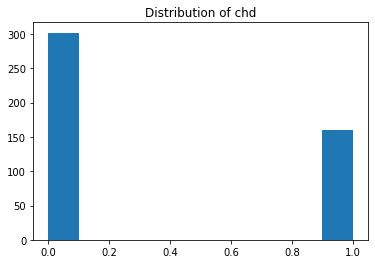
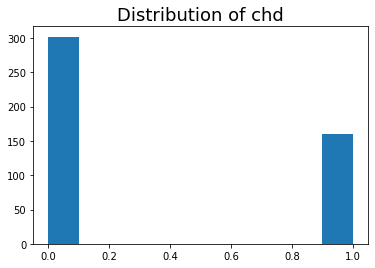
minor cleanup

diff --git a/Heart_disease_PCA+plots.py b/Heart_disease_PCA+plots.py
@@ -66,10 +66,6 @@ for comp in explained_variance:
     print(val,"%")
    
 
-
-# y = binary_heart_data.to_numpy()[:,-1]
-
-
 #Now we can transform this data to its principal components
 
 
@@ -168,9 +164,9 @@ sns.heatmap(df_comp,cmap='plasma',)
 fi = plt.figure(figsize=(10,5),dpi=300)
 ax = fi.add_subplot(111, projection='3d')
 
-xi =binary_heart_data.obesity
-yi =binary_heart_data.tobacco
-zi =binary_heart_data.alcohol
+xi = binary_heart_data.obesity
+yi = binary_heart_data.tobacco
+zi = binary_heart_data.alcohol
 
 ax.scatter(xi,yi,zi, c=binary_heart_data.sbp, marker='o', alpha=.5,sizes=(10, 40))
 ax.set_title('Original data color coded for systolic blood pressure')
@@ -192,7 +188,6 @@ ax.set_zlabel('Alcohol use')
 
 
 # Plot variance explained
-
 plt.figure(dpi=300)
 plt.plot(range(1,len(rho)+1),rho,'x-')
 plt.plot(range(1,len(rho)+1),np.cumsum(rho),'o-')
@@ -206,7 +201,7 @@ plt.show()
 
 
 attributeNames = list(binary_heart_data.columns)[:-1]
-classNames = ['Beep','Boop'] 
+classNames = ['Absent','Present'] 
 
 # Indices of the principal components to be plotted
 
@@ -214,9 +209,8 @@ i = 2
 j = 4
 
 # Plot PCA of the data
-
 f = figure(dpi=300)
-title('NanoNose data: PCA')
+title('Family history')
 #Z = array(Z)
 for c in range(C):
     # select indices belonging to class c:
@@ -225,15 +219,11 @@ for c in range(C):
 legend(classNames)
 xlabel('PC{0}'.format(i+1))
 ylabel('PC{0}'.format(j+1))
-
-# Output result to screen
-
 show()
 
 
 # We saw in 2.1.3 that the first 3 components explaiend more than 90
 # percent of the variance. Let's look at their coefficients:
-
 pcs = [0,1,2]
 legendStrs = ['PC'+str(e+1) for e in pcs]
 c = ['r','g','b']
@@ -246,7 +236,7 @@ plt.xlabel('Attributes')
 plt.ylabel('Component coefficients')
 plt.legend(legendStrs)
 plt.grid()
-plt.title('NanoNose: PCA Component Coefficients')
+plt.title('PCA Component Coefficients')
 plt.show()
 
 r = np.arange(1,X.shape[1]+1)
@@ -254,17 +244,5 @@ plt.bar(r, np.std(X,0))
 plt.xticks(r, attributeNames)
 plt.ylabel('Standard deviation')
 plt.xlabel('Attributes')
-plt.title('NanoNose: attribute standard deviations')
-
-
-
-
+plt.title('Attribute standard deviations')
 plt.show()
-
-
-
-
-
-
-
-

diff --git a/statistics.py b/statistics.py
@@ -23,14 +23,7 @@ median_X = np.round(np.median(X,0),3)
 range_X = np.round(X.max(0) - X.min(0),3)
 
 
-# fig, axs = plt.subplots(2, 5, sharey=True, tight_layout=True)
-
 for num, att in enumerate(attributeNames):
     plt.hist(X[:,num], bins='auto') 
-    plt.title("Distribution of "+str(att))
+    plt.title("Distribution of "+str(att), fontsize=18)
     plt.show()
-    
-    # axs[num][num].hist(X[:,num], bins='auto')
-    # axs[num].title("Distribution of "+str(att))
-    
-    
